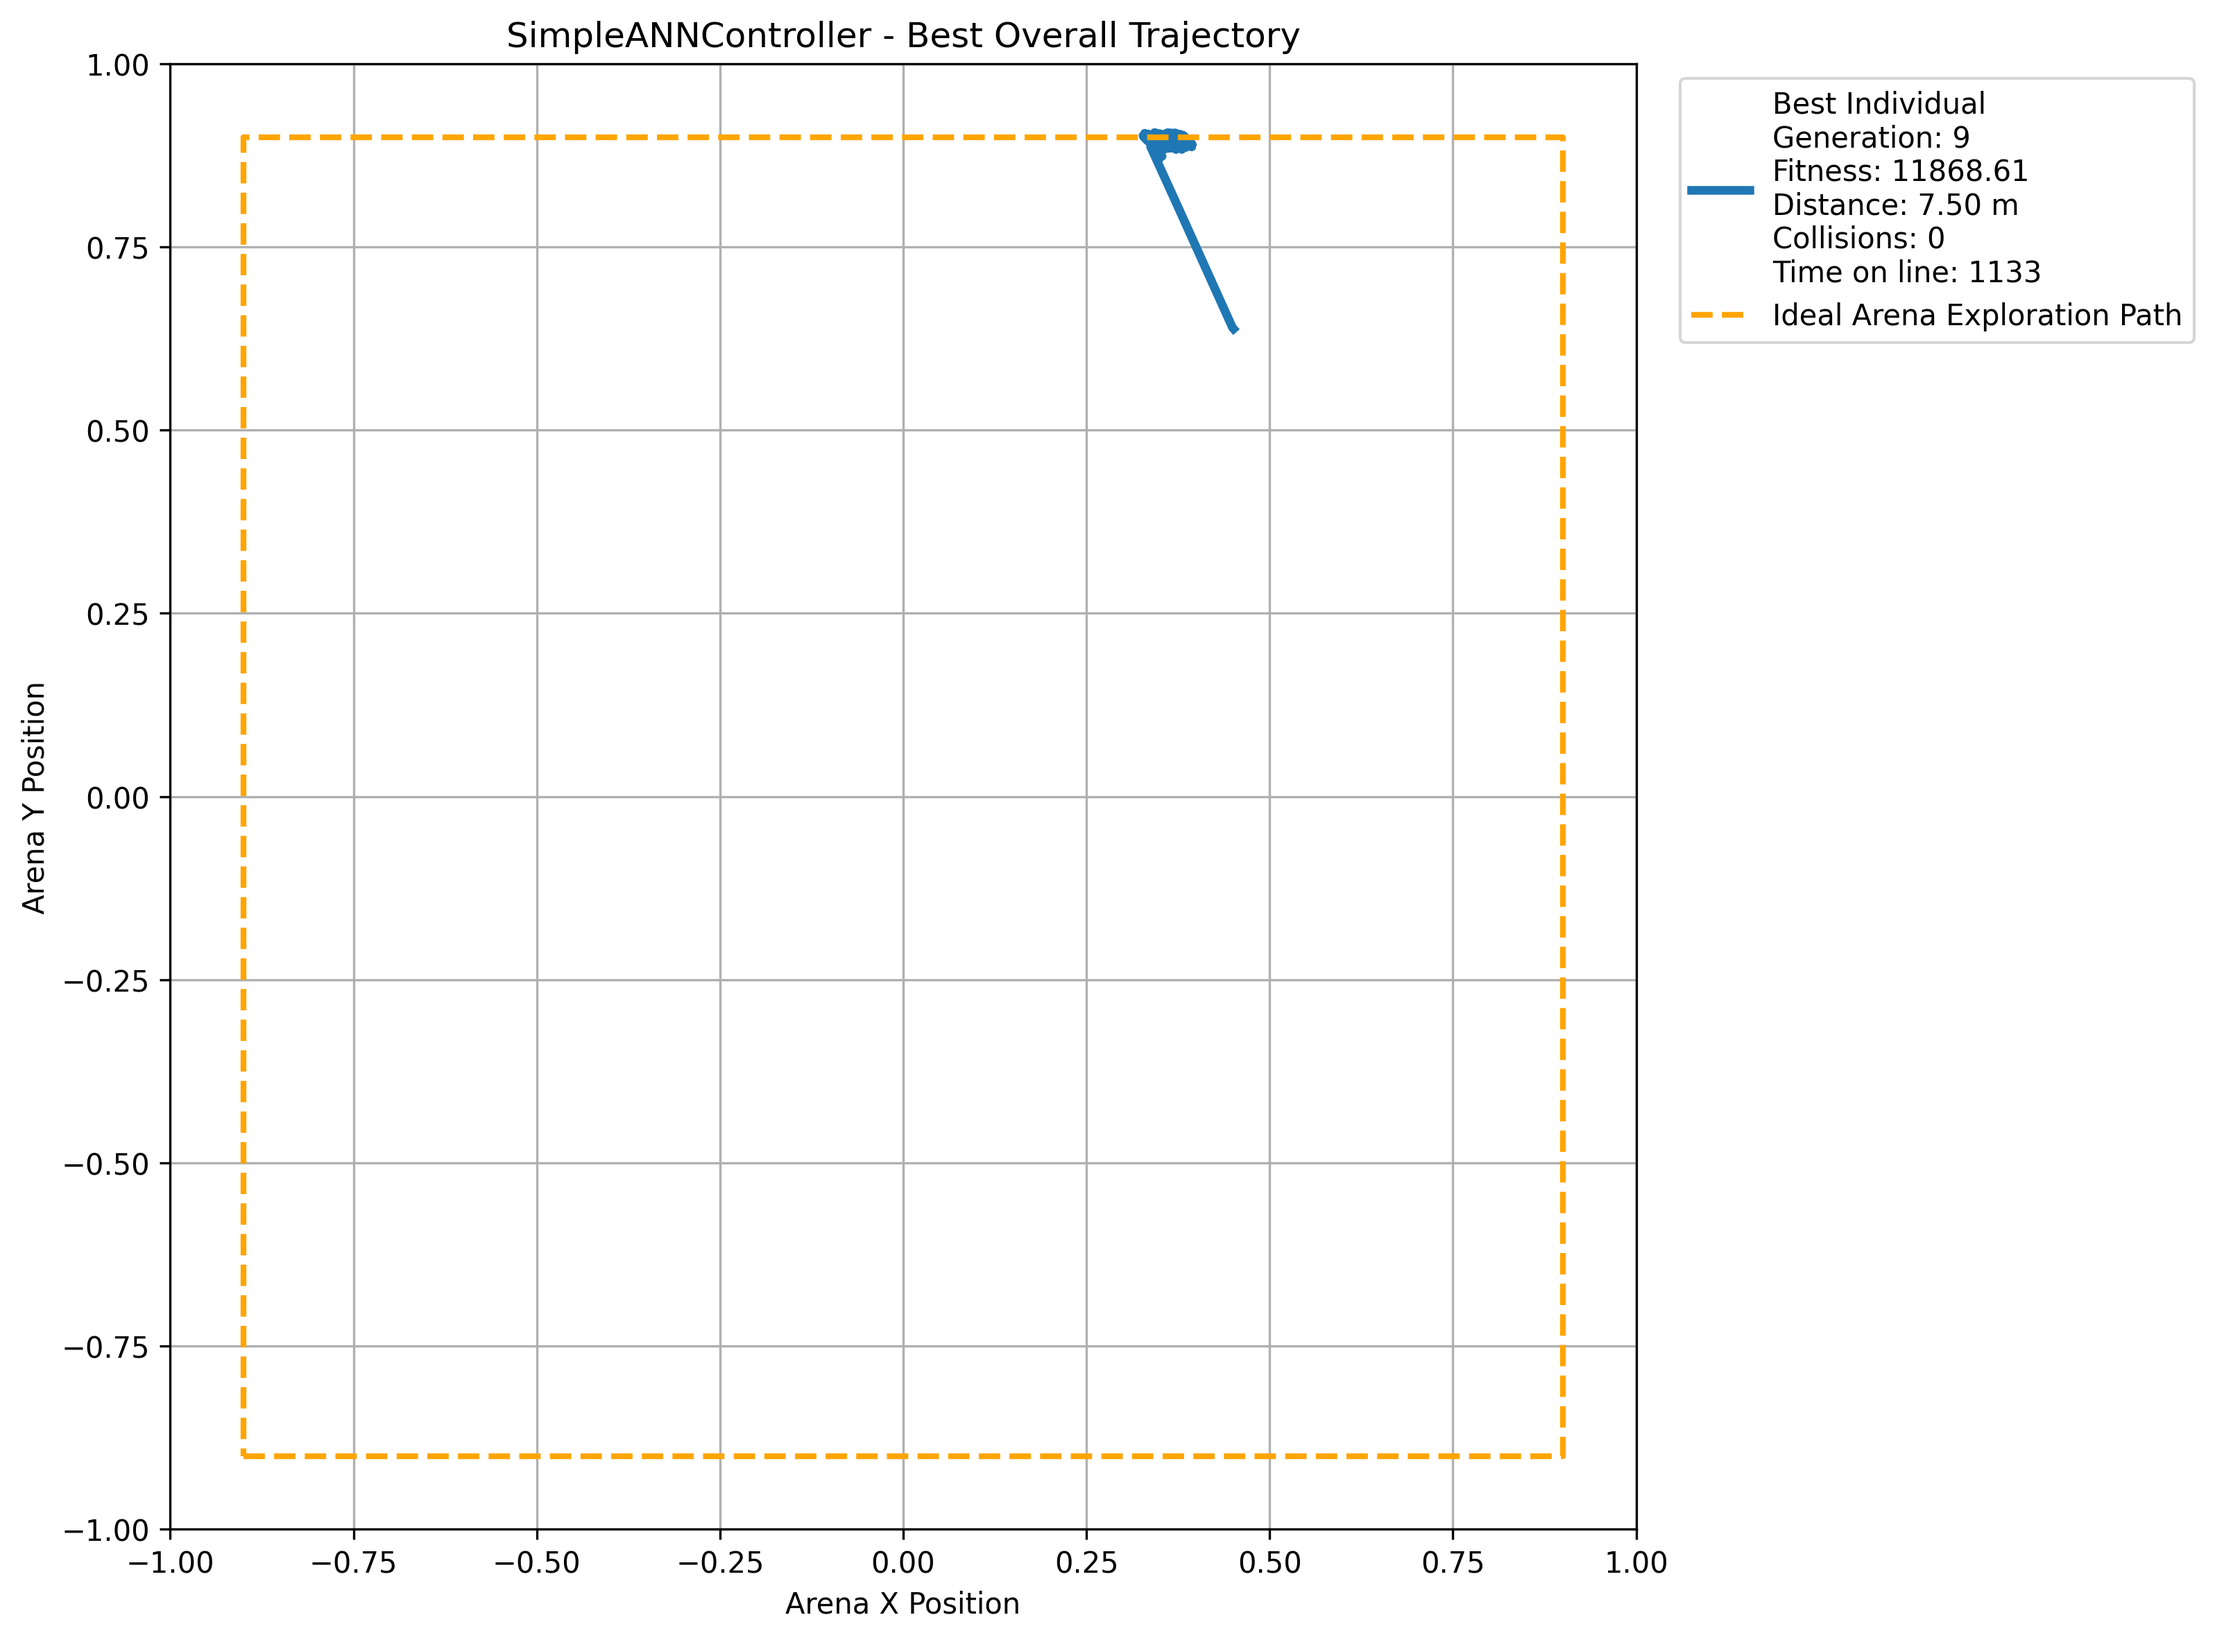
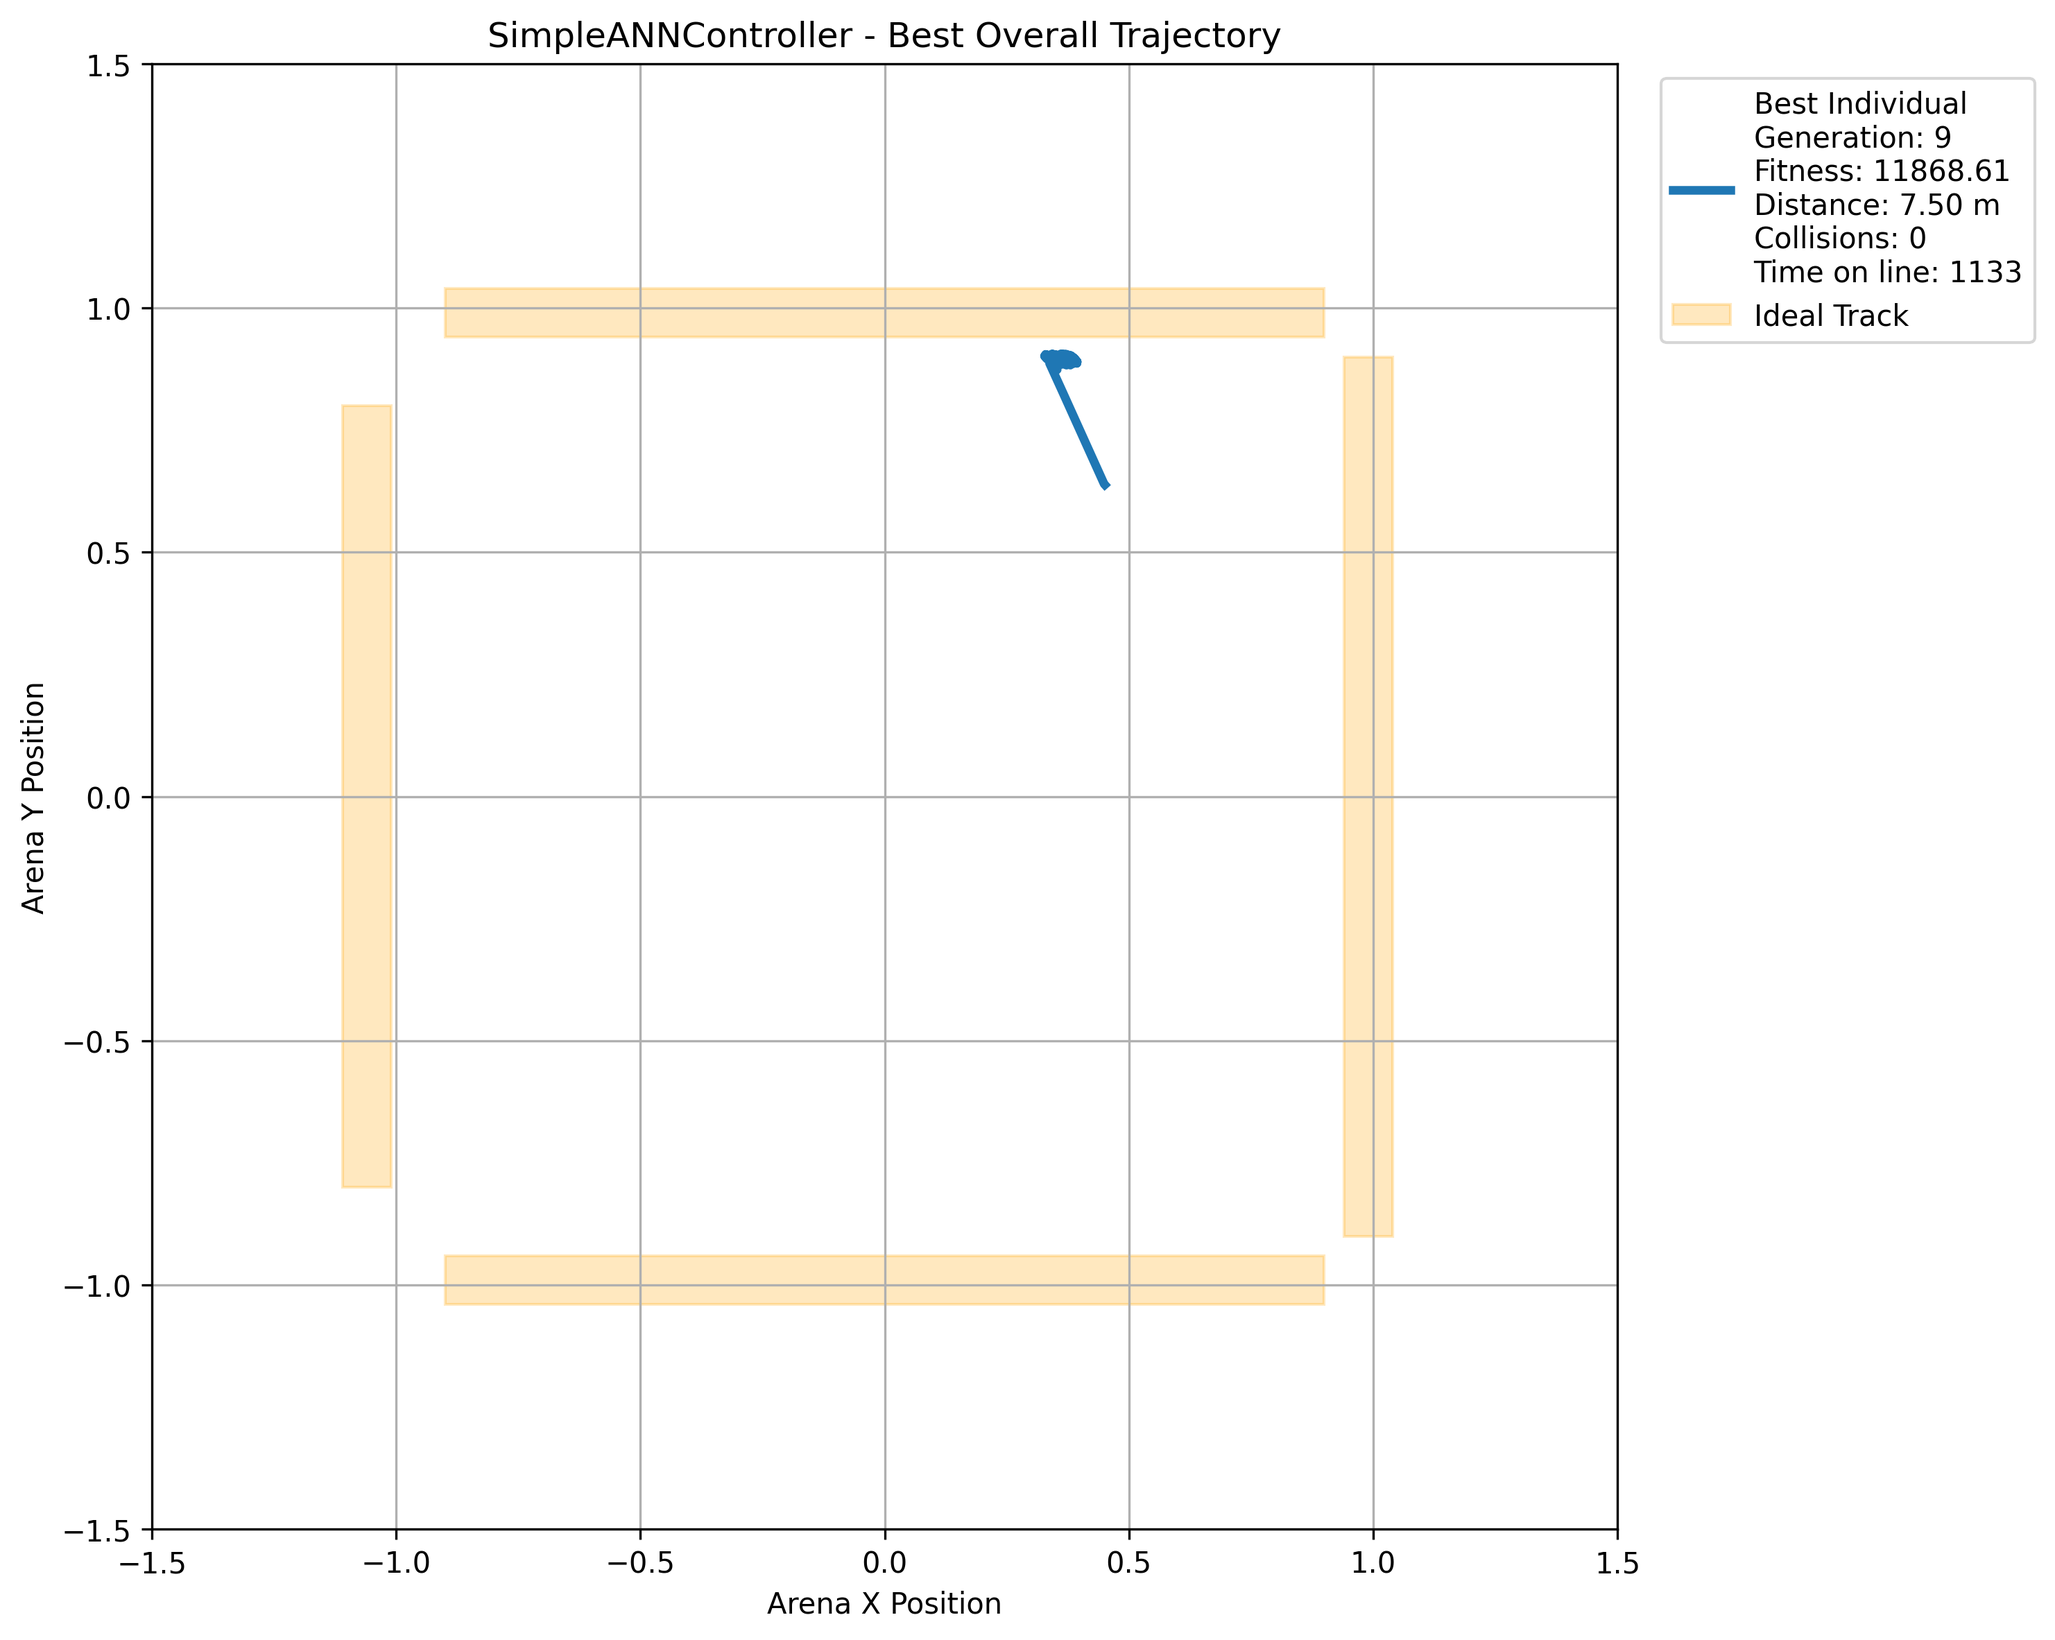
tried to add a buffer still WIP

diff --git a/controllers/p1_controller_simple/p1_controller_simple.py b/controllers/p1_controller_simple/p1_controller_simple.py
@@ -7,6 +7,7 @@ from controller import Supervisor
 from pathlib import Path
 from datetime import datetime
 import os
+from collections import deque
 
 from controllers import (
     BraitenbergController,
@@ -46,7 +47,7 @@ TOURNAMENT_SIZE = 5
 
 #CONTROLLER_CLASS = BraitenbergController
 CONTROLLER_CLASS = SimpleANNController
-# CONTROLLER_CLASS = AdvancedANNController
+#CONTROLLER_CLASS = AdvancedANNController
 
 
 MODE = "train"
@@ -101,6 +102,11 @@ class Evolution:
         self.collision = False
         self.collision_count = 0
         self.time_on_line = 0
+
+        # gerir ultimas posicoes na linha, para penalizar repiticoes
+        # TODO fazer tune a maxlen e cell size
+        self.recent_positions = deque(maxlen=80)
+        self.position_cell_size = 0.10
 
         self.best_global_fitness = -float("inf")
         self.best_global_genome = None
@@ -192,6 +198,23 @@ class Evolution:
         os.makedirs("results/best_individuals", exist_ok=True)
         os.makedirs("results/training_stats", exist_ok=True)
 
+    # ============================================================
+    # For controlling novelty on the line
+    # ============================================================
+
+    def get_position_cell(self, position):
+        x = position[0]
+        y = position[1]
+
+        cell_x = int(x / self.position_cell_size)
+        cell_y = int(y / self.position_cell_size)
+
+        return cell_x, cell_y
+
+    # ============================================================
+    # Obstacles for ANN advanced
+    # ============================================================
+
     def random_obstacle_position(self):
 
         radius = self.spawn_rng.uniform(0.6, 1.0)
@@ -280,6 +303,8 @@ class Evolution:
     # ------------------------------------------------------------
 
     def reset(self):
+        self.recent_positions.clear()
+
         random_rotation = random_orientation(self.spawn_rng)
         random_translation = random_position(self.spawn_rng)
 
@@ -379,7 +404,12 @@ class Evolution:
         self.prev_position = current_position
         self.__n += 1
 
-        return self.get_step_fitness(sensors, step_distance, left_speed, right_speed)
+        # checkar se ja passou aqui recentemente para poder penalizar
+        position_cell = self.get_position_cell(current_position)
+        revisited_recently = (position_cell in self.recent_positions)
+        self.recent_positions.append(position_cell)
+
+        return self.get_step_fitness(sensors, step_distance, left_speed, right_speed, revisited_recently)
 
     # ------------------------------------------------------------
     # Run evolution
@@ -505,6 +535,7 @@ class Evolution:
         step_distance,
         left_speed,
         right_speed,
+        revisited_recently
     ):
         fitness = 0.0
     
@@ -526,7 +557,9 @@ class Evolution:
         # dar pontos por estar na linha
         # nao permitir estar parado ou frente e tras
         if on_line:
-            fitness += step_distance * 1500.0
+            if not revisited_recently:
+                fitness += step_distance * 1000.0
+
     
         else:
             fitness -= 1.0
@@ -543,7 +576,7 @@ class Evolution:
         # =========================================================
     
         if self.collision:
-            fitness -= 5.0
+            fitness -= 10.0
     
         return fitness
 
